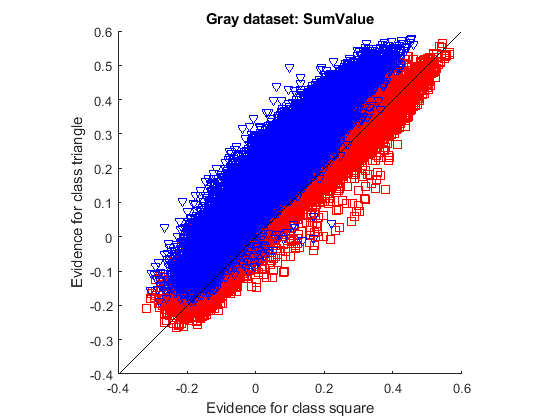
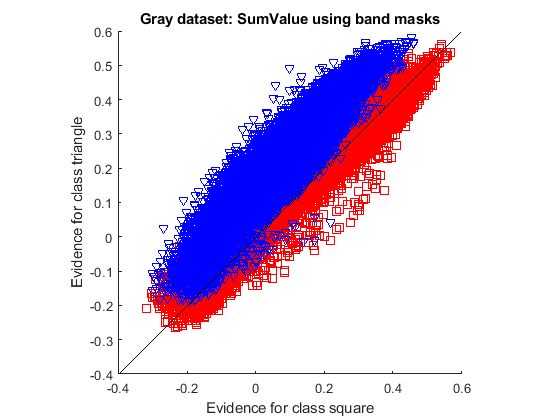
issue #17: adding band masks in figure title

diff --git a/Results/Experiments/TrianglesAndSquares/Gray/plot_evidence/BandMask/test_compute_evidence.html b/Results/Experiments/TrianglesAndSquares/Gray/plot_evidence/BandMask/test_compute_evidence.html
@@ -336,10 +336,16 @@ else
             xlabel('Evidence for class square'); ylabel('Evidence for class triangle');
             if titles
                 if binary
-                    title(['Binary dataset: ' statistic]);
+                    title_str = ['Binary dataset: ' statistic];                    
                 else
-                    title(['Gray dataset: ' statistic]);
+                    title_str = ['Gray dataset: ' statistic];
                 end
+                if masks
+                    title_str = [title_str ' using band masks'];
+                else
+                    title_str = [title_str ' using all pixels'];
+                end
+                title(title_str);
             end
             hold off
             

diff --git a/Software/MATLAB/SimpleLRPExperiment/test_scripts/test_compute_evidence.m b/Software/MATLAB/SimpleLRPExperiment/test_scripts/test_compute_evidence.m
@@ -257,10 +257,16 @@ else
             xlabel('Evidence for class square'); ylabel('Evidence for class triangle');
             if titles
                 if binary
-                    title(['Binary dataset: ' statistic]);
+                    title_str = ['Binary dataset: ' statistic];                    
                 else
-                    title(['Gray dataset: ' statistic]);
+                    title_str = ['Gray dataset: ' statistic];
                 end
+                if masks
+                    title_str = [title_str ' using band masks'];
+                else
+                    title_str = [title_str ' using all pixels'];
+                end
+                title(title_str);
             end
             hold off
             
